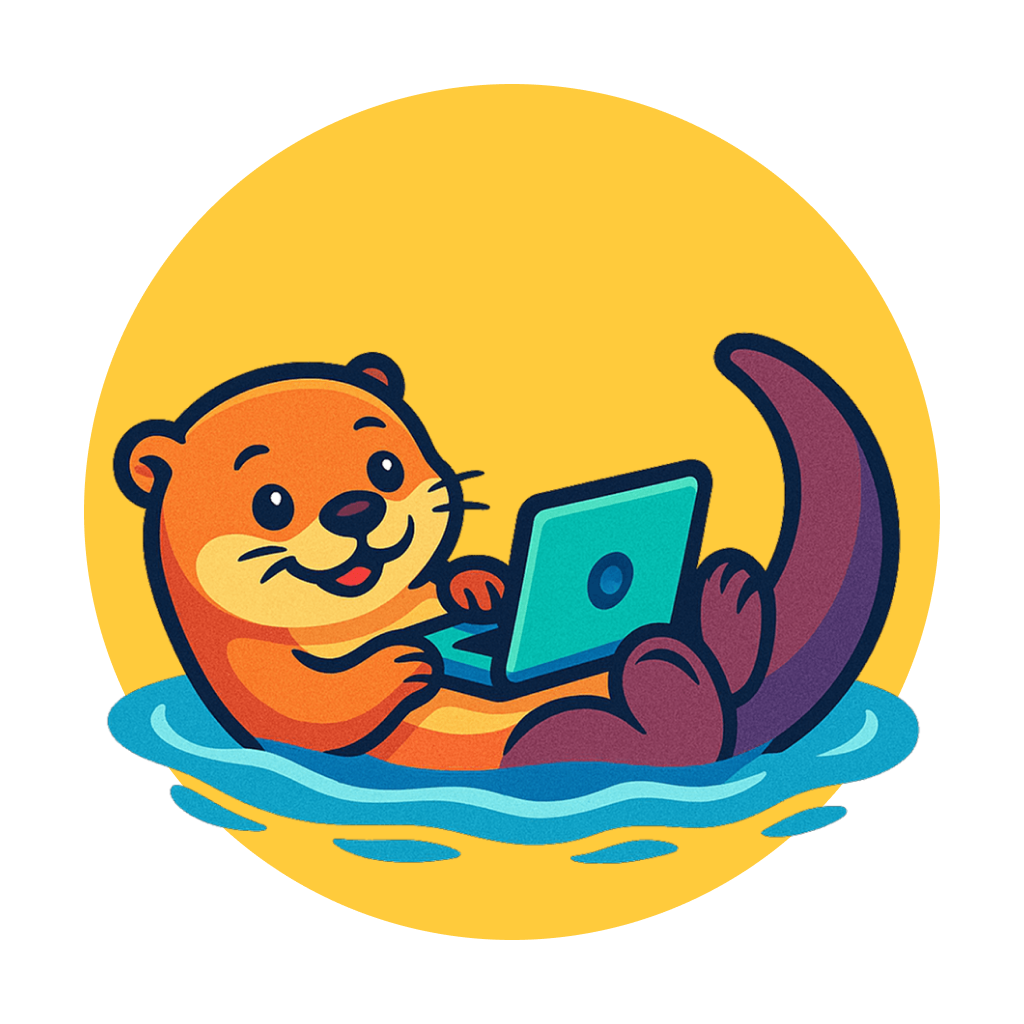
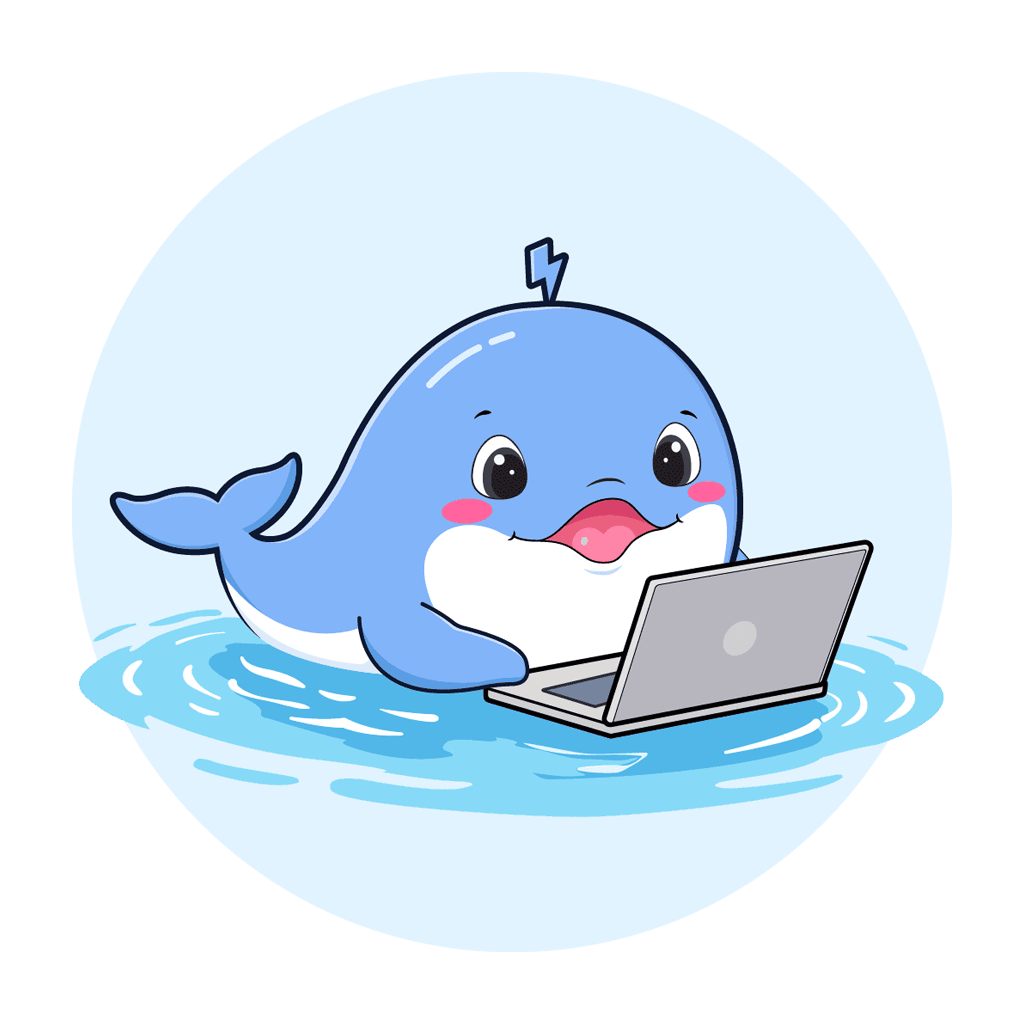
chore: clean up legacy brand references, remove unused files, and add GitHub templates
Remove obsolete VSCode settings and Expo patch. Update logo and mascot
images. Replace old brand references in CLI and server packages. Add
issue and PR templates for GitHub.

diff --git a/packages/happy-cli/src/ui/logger.ts b/packages/happy-cli/src/ui/logger.ts
@@ -2,7 +2,7 @@
  * Design decisions:
  * - Logging should be done only through file for debugging, otherwise we might disturb the claude session when in interactive mode
  * - Use info for logs that are useful to the user - this is our UI
- * - File output location: ~/.handy/logs/<date time in local timezone>.log
+ * - File output location: ~/.happy/logs/<date time in local timezone>.log
  */
 
 import chalk from 'chalk'

diff --git a/packages/happy-cli/src/utils/serverConnectionErrors.ts b/packages/happy-cli/src/utils/serverConnectionErrors.ts
@@ -58,7 +58,7 @@ import { logger } from '@/ui/logger';
  * Uses dependency injection for testability.
  */
 export interface OfflineReconnectionConfig<TSession> {
-    /** Server URL to health-check against (e.g., 'https://api.happy-servers.com') */
+    /** Server URL to health-check against (e.g., 'https://api.happy.hitosea.com') */
     serverUrl: string;
 
     /**

diff --git a/packages/happy-cli/src/api/auth.ts b/packages/happy-cli/src/api/auth.ts
@@ -39,5 +39,5 @@ export async function authGetToken(secret: Uint8Array): Promise<string> {
  */
 export function generateAppUrl(secret: Uint8Array): string {
   const secretBase64Url = encodeBase64Url(secret);
-  return `handy://${secretBase64Url}`;
+  return `happy://${secretBase64Url}`;
 }

diff --git a/.github/ISSUE_TEMPLATE/bug_report.md b/.github/ISSUE_TEMPLATE/bug_report.md
@@ -1,0 +1,29 @@
+---
+name: Bug Report
+about: Report a bug in Happy Next
+labels: bug
+---
+
+## Describe the bug
+
+A clear description of the problem.
+
+## Steps to reproduce
+
+1. ...
+2. ...
+
+## Expected behavior
+
+What you expected to happen.
+
+## Environment
+
+- **OS**: (e.g., macOS 15, Ubuntu 24.04, Windows 11)
+- **Component**: CLI / Web App / Self-hosted Server
+- **CLI version**: (`happy --version`)
+- **Deployment**: Hosted (`api.happy.hitosea.com`) / Self-hosted (`docker-compose`)
+
+## Logs / Screenshots
+
+Paste relevant logs or attach screenshots.

diff --git a/.github/ISSUE_TEMPLATE/feature_request.md b/.github/ISSUE_TEMPLATE/feature_request.md
@@ -1,0 +1,21 @@
+---
+name: Feature Request
+about: Suggest an idea for Happy Next
+labels: enhancement
+---
+
+## Problem
+
+What problem does this feature solve?
+
+## Proposed solution
+
+Describe the solution you'd like.
+
+## Alternatives considered
+
+Any alternative approaches you've considered.
+
+## Additional context
+
+Any other context, screenshots, or references.

diff --git a/.github/PULL_REQUEST_TEMPLATE.md b/.github/PULL_REQUEST_TEMPLATE.md
@@ -1,0 +1,19 @@
+## Summary
+
+Brief description of what this PR does.
+
+## Changes
+
+- ...
+
+## Testing
+
+How was this tested?
+
+- [ ] Tested locally
+- [ ] Existing tests pass
+- [ ] New tests added (if applicable)
+
+## Related issues
+
+Closes #
